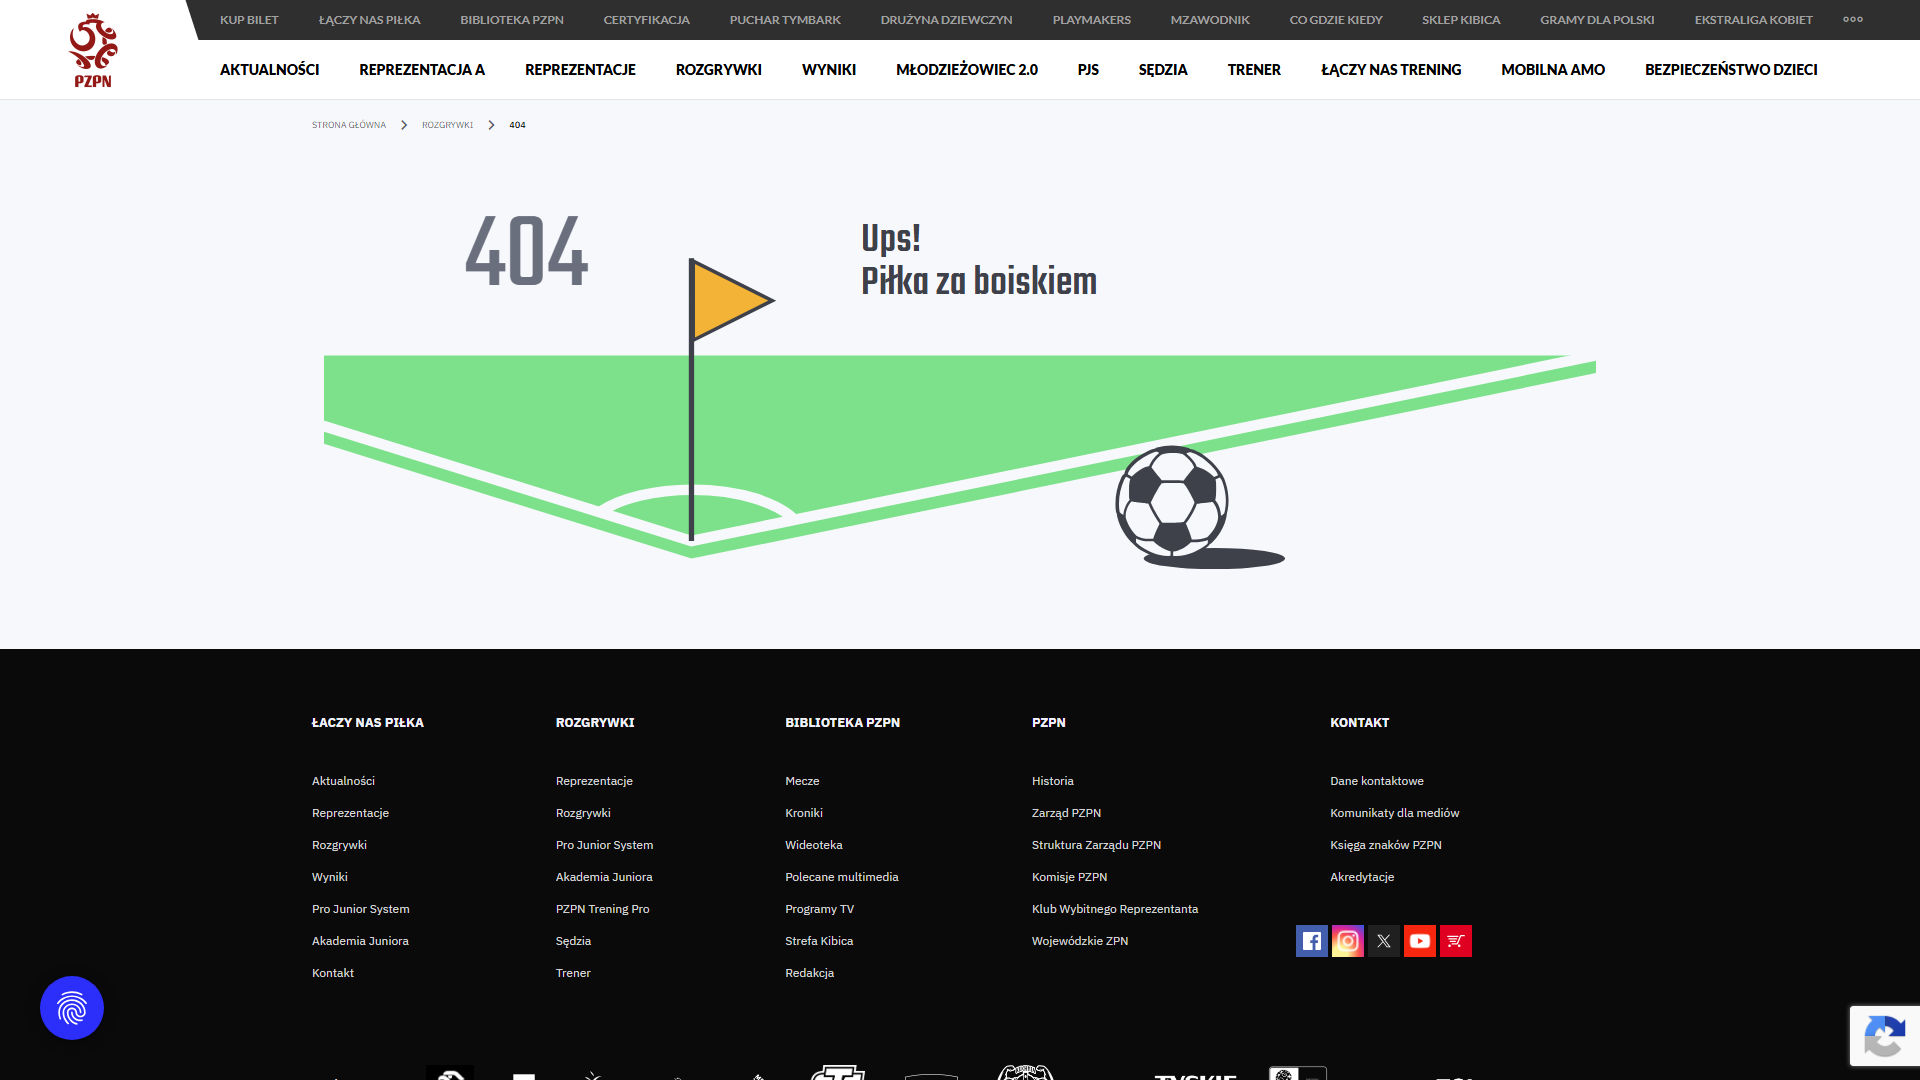
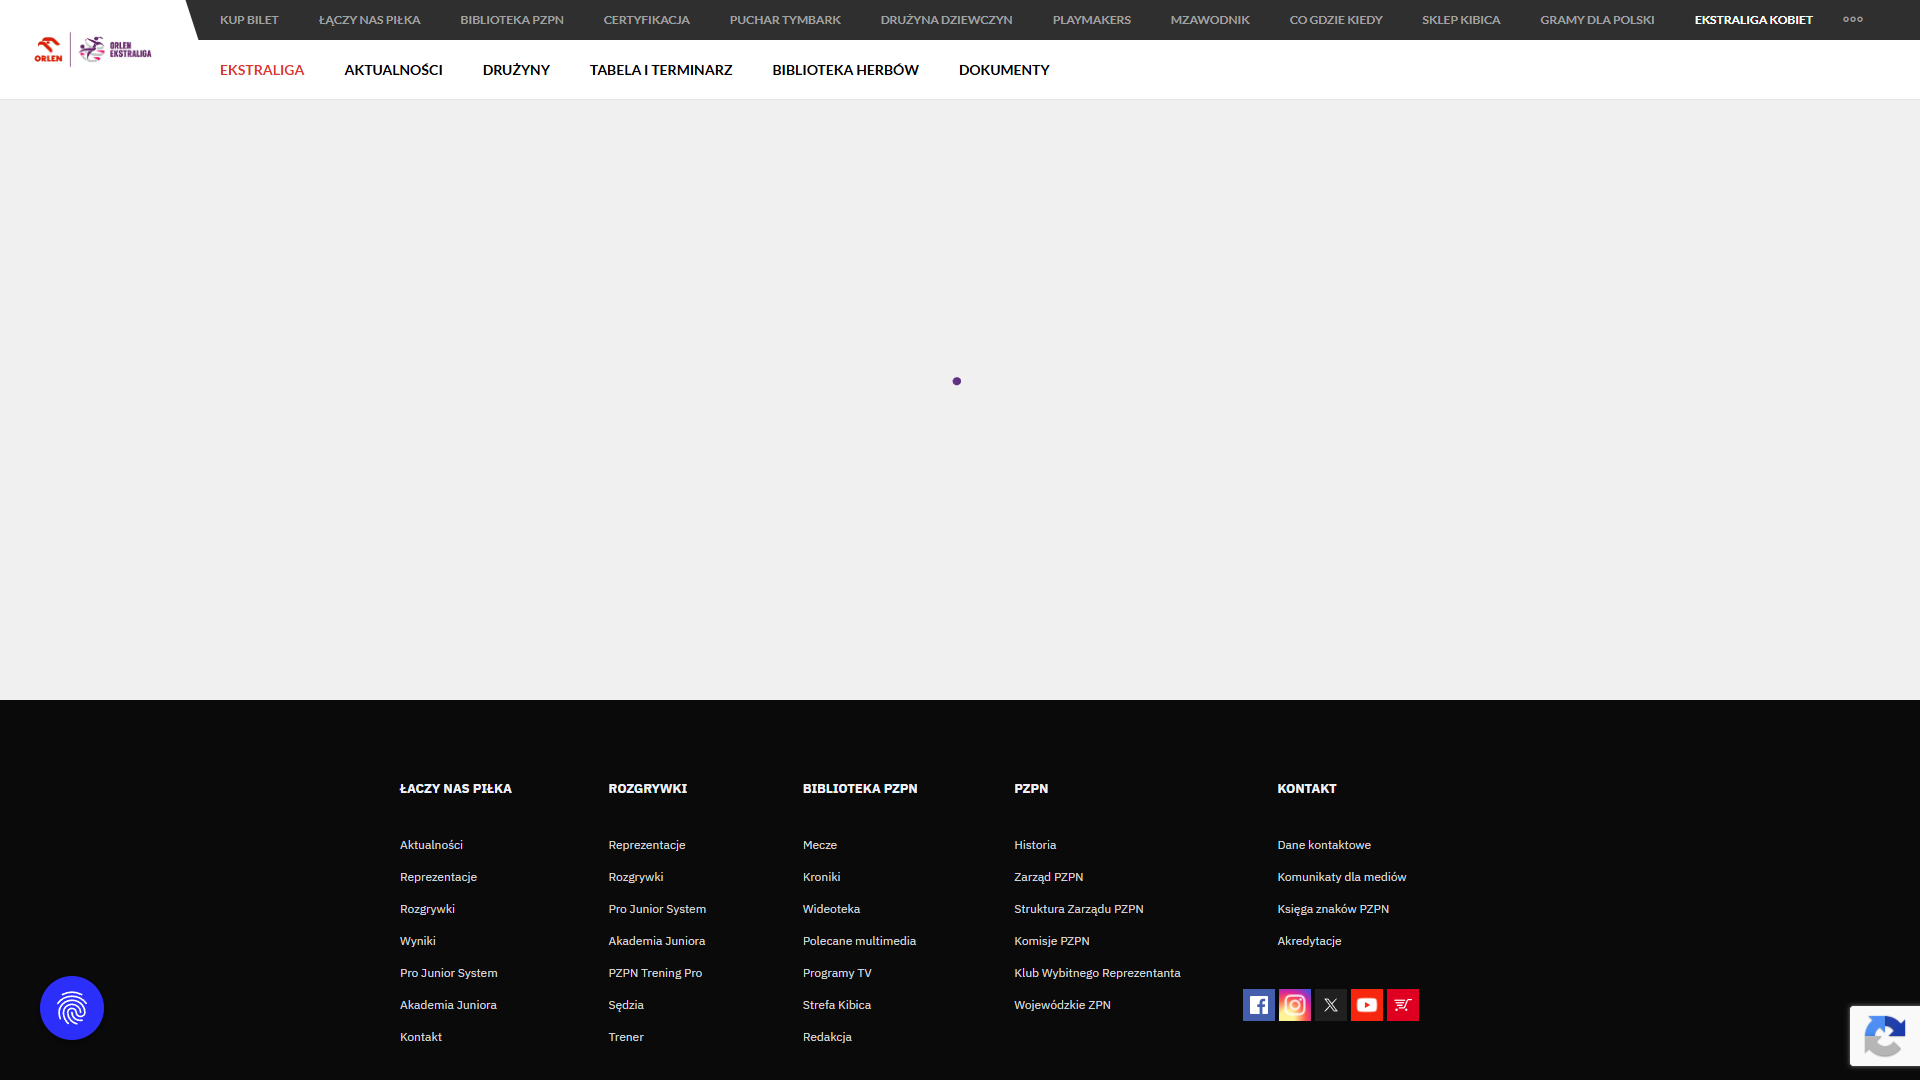
UWAGA RODACY SCRAPPING DZIAŁA
-Dodałem obsługe niższych lig i możliwe że zadziałają też inne (nie testowane)
-I generuje piękny plik JSON z tabelą (:

diff --git a/apps/web_scrapping/main_scrapper.py b/apps/web_scrapping/main_scrapper.py
@@ -1,14 +1,47 @@
 # %%
 from playwright.sync_api import sync_playwright
 import json
+import re
 
-def scrape_laczynaspilka(sezon, liga, runda, kolejka):
+
+def scrape_laczynaspilka(liga, runda=None, kolejka=None, wojewodztwo=None, klasa=None, grupa=None):
+    """
+        Pobiera i zapisuje tabele ligowe z strony PZPN
+
+        Funkcja wykorzystuje bibliotekę Playwright do symulowania prawdziwej przeglądarki
+        Google Chrome w trybie w tle (headless). Sezon rozgrywek jest ustawiony na sztywno na "2025/2026".
+        Logika funkcji automatycznie wybiera ścieżkę klikania filtrów w zależności od
+        głównego argumentu `liga` dlatego możliwa jest do wyboru tylko ekstraklasa i Niższe Ligi
+
+        Args:
+            liga (str): Główna kategoria rozgrywek ("Ekstraklasa" lub "Niższe ligi" na innych nie testowane).
+            runda (str, optional): Nazwa rundy (np. "Wiosenna", "Jesienna").
+                                   [Wymagane dla ścieżki: "Ekstraklasa"]
+            kolejka (str, optional): Numer kolejki, dokładnie jak na stronie (np. "33 (bieżąca)").
+                                     [Wymagane dla ścieżki: "Ekstraklasa"]
+            wojewodztwo (str, optional): Nazwa województwa (np. "dolnośląskie").
+                                         [Wymagane dla ścieżki: "Niższe ligi"]
+            klasa (str, optional): Klasa rozgrywkowa (np. "Klasa B").
+                                   [Wymagane dla ścieżki: "Niższe ligi"]
+            grupa (str, optional): Nazwa przypisanej grupy (np. "Wałbrzych: Klasa B").
+                                   Nie wymaga wpisywania kropek na końcu, skrypt sam
+                                   dopasuje najdłuższy ciąg znaków.
+                                   [Wymagane dla ścieżki: "Niższe ligi"]
+
+        Returns:
+            list[dict]: Lista słowników, gdzie każdy słownik to jeden wiersz (klub) w tabeli.
+                        Klucze słownika to m.in.: "Pozycja", "Druzyna", "Mecze", "Punkty",
+                        "Wygrane", "Remisy", "Porazki", "Gole_Zdobyte", "Gole_Stracone", "Bilans".
+
+        Raises:
+            ValueError: Jeśli użytkownik nie poda wszystkich parametrów wymaganych dla danej ligi.
+            Exception: Zwraca błąd wykonania i automatycznie tworzy zrzut ekranu error_headless i wiecie
+            jak się wywróci dajcie znać na mess to będę konntynuował moje dalsze walki z tym cloudflarem
+        """
+
+    sezon = "2025/2026"
+
     with sync_playwright() as p:
-        #Używamy fizycznie zainstalowanego Chrome'a z systemu jak macie inną trzeba zmienić channel na inny
-
-
-
-
         browser = p.chromium.launch(
             channel="chrome",
             headless=True,
@@ -37,7 +70,6 @@ def scrape_laczynaspilka(sezon, liga, runda, kolejka):
         except Exception:
             print(" -> Brak ciasteczek, jedziemy dalej.")
 
-        # Wstrzykujemy kliknięcie w link, żeby gładko przejść na rozgrywki
         print("Wymuszam przejście do zakładki Rozgrywki...")
         page.evaluate('''() => {
             let linki = document.querySelectorAll("a[href='/rozgrywki'], a[href='https://www.laczynaspilka.pl/rozgrywki']");
@@ -51,25 +83,67 @@ def scrape_laczynaspilka(sezon, liga, runda, kolejka):
         try:
             page.get_by_text("Sezon", exact=True).locator("visible=true").first.wait_for(state="visible", timeout=15000)
 
-            print("Zmieniam filtry...")
+            print(f"Zmieniam filtry dla ścieżki: {liga}...")
 
             def wybierz_parametr(nazwa, wartosc):
                 print(f" -> Ustawiam: {nazwa} = {wartosc}")
-                pole = page.get_by_text(nazwa, exact=True).locator("visible=true").first
-                pole.locator("..").click(force=True)
-                page.wait_for_timeout(1500)
 
-                page.get_by_text(wartosc, exact=True).locator("visible=true").last.click(force=True)
+                regex_nazwa = re.compile(f"^\\s*{nazwa}\\s*$")
+                pole = page.get_by_text(regex_nazwa).locator("visible=true").first
+                opcja = page.get_by_text(wartosc).locator("visible=true").last
+
+                rozwinieto = False
+                for _ in range(4):
+                    pole.locator("..").click(force=True)
+                    page.wait_for_timeout(1000)
+
+                    if opcja.is_visible():
+                        rozwinieto = True
+                        break
+
+                    pole.click(force=True)
+                    page.wait_for_timeout(1000)
+
+                    if opcja.is_visible():
+                        rozwinieto = True
+                        break
+
+                if not rozwinieto:
+                    print(
+                        f" [!] UWAGA: Nie udało się bezbłędnie rozwinąć listy '{nazwa}'. Próbuję kliknąć opcję siłowo.")
+
+                opcja.click(force=True)
                 page.wait_for_timeout(2000)
+
+                # --- GŁÓWNA LOGIKA WYBORU ---
 
             wybierz_parametr("Sezon", sezon)
             wybierz_parametr("Liga", liga)
-            wybierz_parametr("Runda", runda)
-            wybierz_parametr("Kolejka", kolejka)
 
-            print("Pobieram wygenerowaną tabelę...")
+            if liga == "Ekstraklasa":
+                if not runda or not kolejka:
+                    raise ValueError("Dla Ekstraklasy musisz podać parametry: runda, kolejka!")
+
+                wybierz_parametr("Runda", runda)
+                wybierz_parametr("Kolejka", kolejka)
+
+            elif liga == "Niższe ligi":
+                if not wojewodztwo or not klasa or not grupa:
+                    raise ValueError("Dla niższych lig musisz podać parametry: wojewodztwo, klasa, grupa!")
+
+                wybierz_parametr("Województwa", wojewodztwo)
+                wybierz_parametr("Klasa rozgrywkowa", klasa)
+                wybierz_parametr("Grupa", grupa)
+
+            else:
+                print(f"Ostrzeżenie: Brak zdefiniowanej ścieżki dla ligi '{liga}'.")
+
+            # ---------------------------
+
+            print("Czekam na załadowanie się tabeli...")
             page.wait_for_timeout(2000)
 
+            print("Pobieram wygenerowaną tabelę...")
             tabela_danych = page.evaluate(r'''() => {
                 let wyniki = [];
                 let wiersze = document.querySelectorAll('div.row-hover');
@@ -108,12 +182,27 @@ def scrape_laczynaspilka(sezon, liga, runda, kolejka):
             browser.close()
             raise e
 
-# Odpalenie skryptu
-dane_json = scrape_laczynaspilka(
-    sezon="2025/2026",
-    liga="Ekstraklasa",
-    runda="Wiosenna",
-    kolejka="33 (bieżąca)"
-)
+#TESTY UŻYCIA
 
-print(json.dumps(dane_json, indent=4, ensure_ascii=False))
+wybrana_liga = "Niższe ligi"  # Tutaj wpisujecie wybraną lige
+
+if wybrana_liga == "Ekstraklasa":
+    dane_json = scrape_laczynaspilka(
+        liga="Ekstraklasa",
+        runda="Wiosenna",
+        kolejka="33 (bieżąca)"
+    )
+else:
+    dane_json = scrape_laczynaspilka(
+        liga="Niższe ligi",
+        wojewodztwo="dolnośląskie",
+        klasa="Klasa B",
+        grupa="Wałbrzych: Klasa B"
+    )
+
+nazwa_pliku = f"tabela_{wybrana_liga.replace(' ', '_').lower()}.json"
+
+with open(nazwa_pliku, "w", encoding="utf-8") as plik:
+    json.dump(dane_json, plik, indent=4, ensure_ascii=False)
+
+print(f"Dane pobrano do pliku: {nazwa_pliku}")